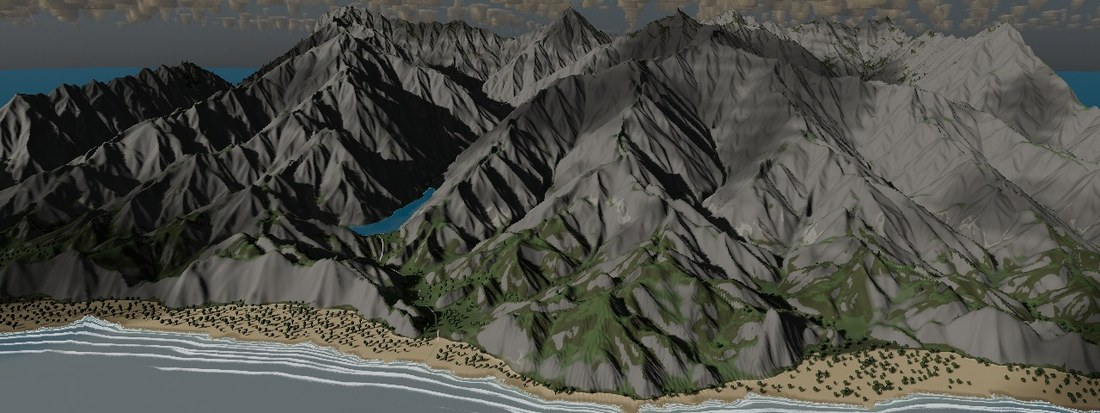
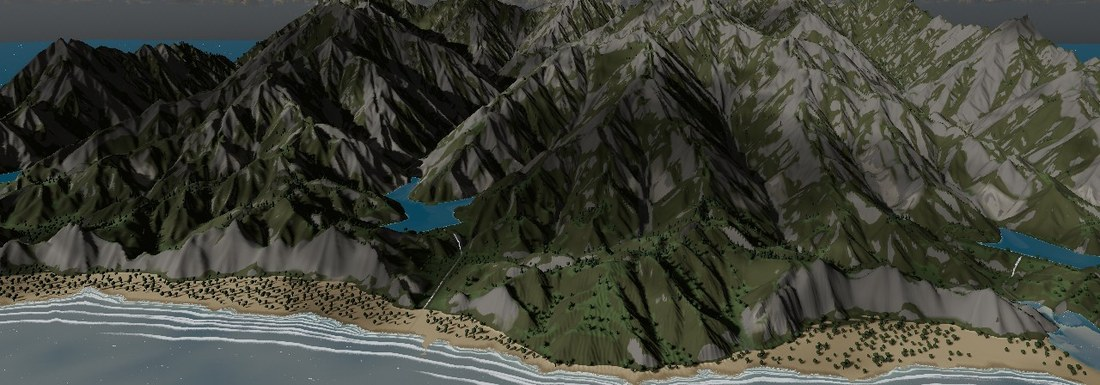
README: refreshed ground material image
Claude-Session: https://claude.ai/code/session_019a7Xd2PZ5gvYQ3NZ7og5rU

diff --git a/README.md b/README.md
@@ -310,7 +310,7 @@ Each feature that changes the look or the cost can be turned off with the settin
 
 ![A generated range with its ground material: rock, scree, soil and a sand beach](docs/media/terrain-ground.jpg)
 
-*Ground material: bare rock on the ridges, soil and green in the valleys, a sand beach at the coast, all from the generator's geology.*
+*Ground material: rock on crests and cliffs, grass and soil on the slopes, a sand beach at the coast, all from the generator's geology.*
 
 ![Footprints and tracks in dry sand, damp sand, soil, mud and leaf litter, raster and path traced](docs/media/ground-footprints.jpg)
 
